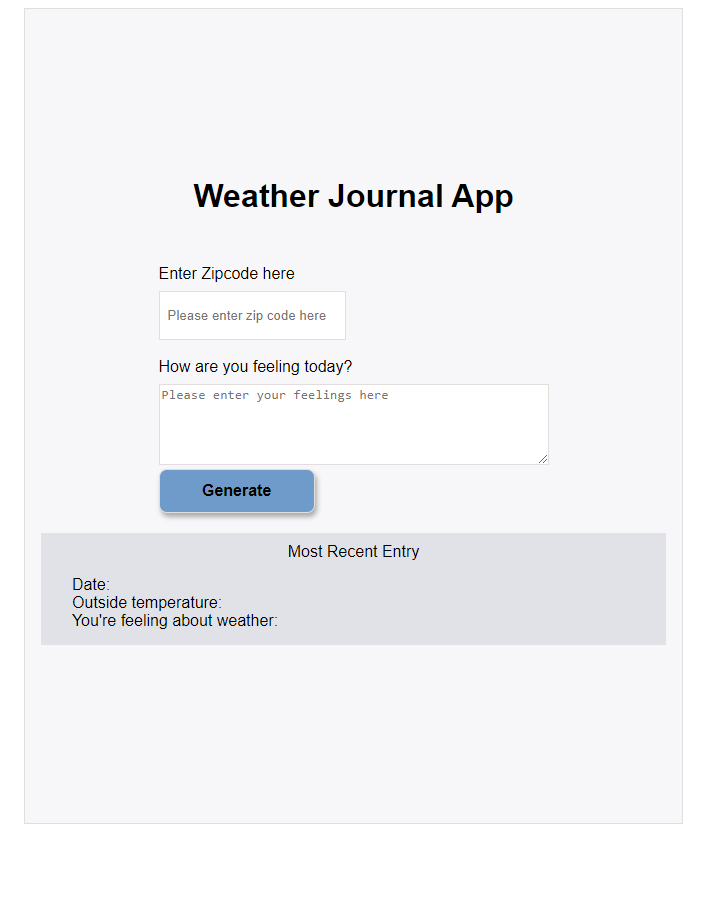
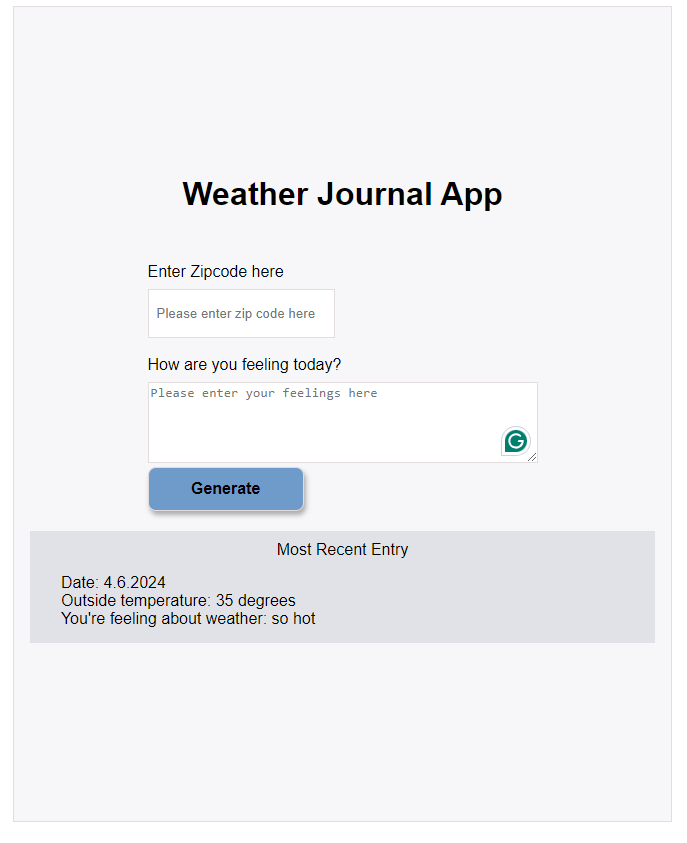
update code

diff --git a/website/app.js b/website/app.js
@@ -1,5 +1,3 @@
-
-
 const userInfo = document.getElementById('userInfo');
 const generateBtn = document.getElementById('generate');
 generateBtn.addEventListener('click', performAction);
@@ -22,13 +20,11 @@ function performAction(e) {
         generateBtn.classList.remove('invalid');
         getWeatherData(apiUrl, zipCode, apiKey)
             .then((data) => {
-                postData('/add', { temp: data.main.temp, date: newDate, feel: feel });
+              postUserInfoData('/add', { temp: data.main.temp, date: newDate, feel: feel });
             }).then(() => {
-                updateUI()
+              updateDynamicUI()
             }).catch((error) => {
-                console.log(error);
-                alert('The zip code is invalid. Try again');
-
+                alert('Please try again enter difference zip code!');
             });
         userInfo.reset();
     } else {
@@ -46,7 +42,7 @@ const getWeatherData = async(apiUrl, zipCode, apiKey) => {
 };
 
 /* POST method */
-const postData = async(url = '', data = {}) => {
+const postUserInfoData = async(url = '', data = {}) => {
     const response = await fetch(url, {
         method: 'POST',
         credentials: 'same-origin',
@@ -68,7 +64,7 @@ const postData = async(url = '', data = {}) => {
     }
 };
 
-const updateUI = async() => {
+const updateDynamicUI = async() => {
     const request = await fetch('/all');
     try {
         const allData = await request.json();
